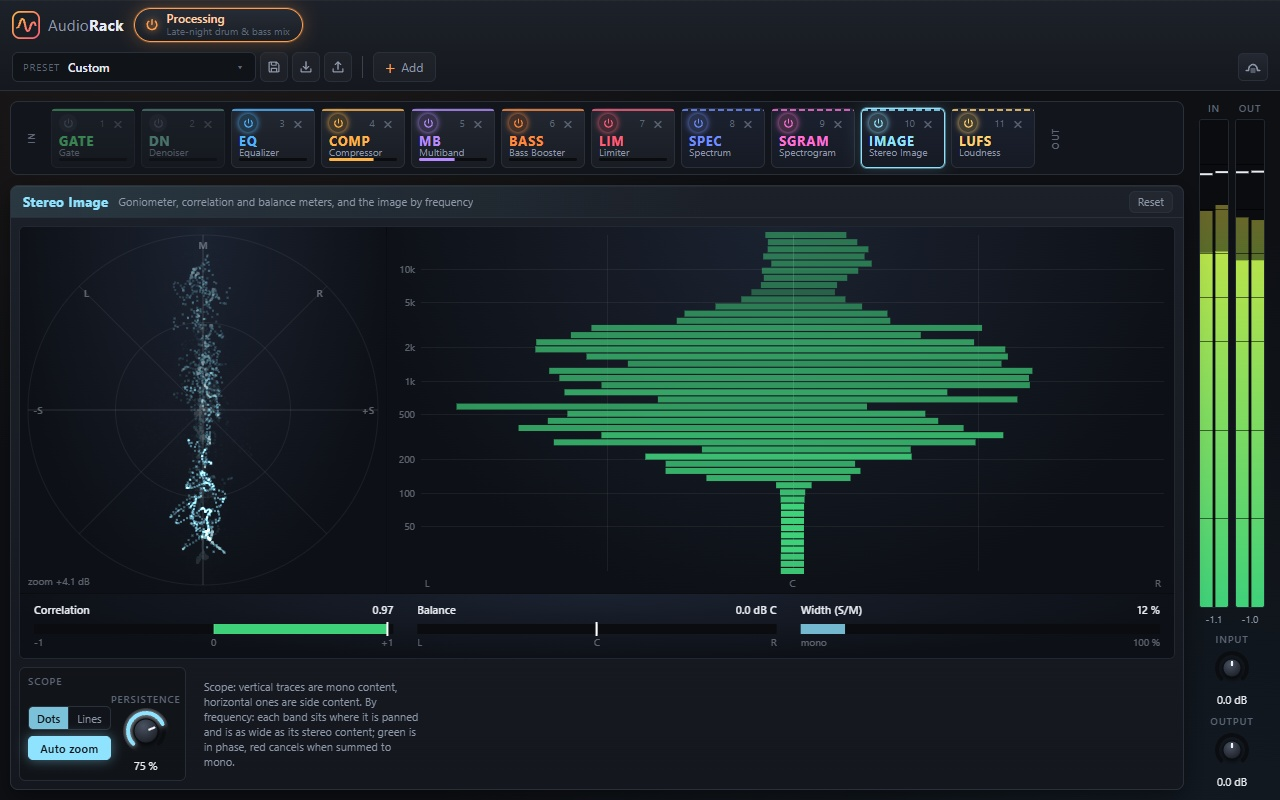
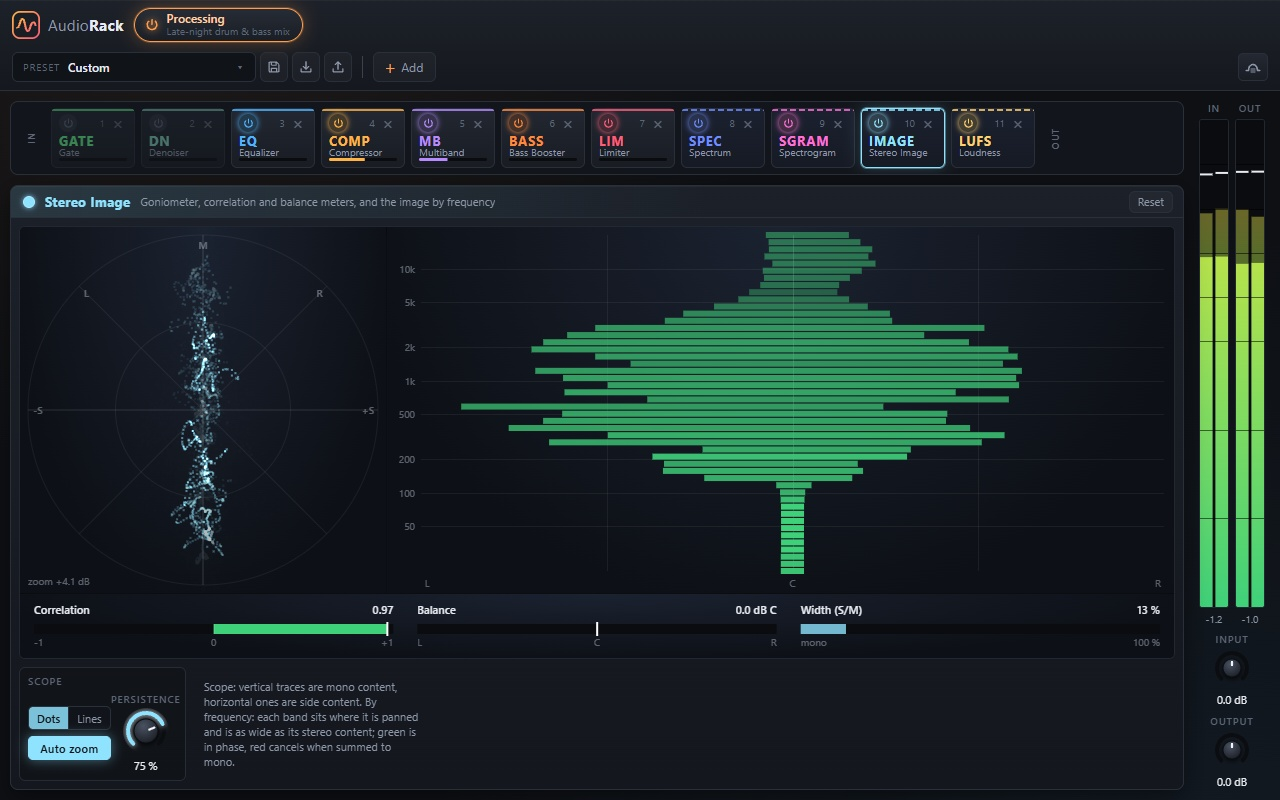
Release 0.8.0: recapture screenshots and update docs for display editing
- Bump the version to 0.8.0
- Recapture the store screenshots, every website picture and the
  marquee, now showing the nodes, rings and guides on the displays and
  the gate's transfer curve
- The side panel scene pins the equalizer and the spectrogram in an
  820 px panel, so the equalizer's controls fit on one row, laid out
  larger than captured so both panels fit
- store-assets.mjs: `--side-panel` captures only the side panel scene
- Website, store description and README: describe dragging on the
  displays, the three-setting nodes, accent colors and the gate curve

diff --git a/site/index.html b/site/index.html
@@ -76,7 +76,9 @@
                 <p class="section-lead">
                     Add effects, drag them into the order you want, or side by side in parallel
                     branches, and bypass any of them with a click. Bypassing crossfades, so there
-                    are no clicks or pops.
+                    are no clicks or pops. The displays are controls too: drag a node to set two
+                    settings at once and its ring for a third, or drag a threshold line, and give
+                    each effect an accent color of your own.
                 </p>
                 <div class="modules">
                     <article class="module" style="--tint: #4fb3ff">
@@ -91,8 +93,8 @@
                         <p>
                             Up to 12 bands (bells, shelves, notch, band pass and 12–48 dB/oct cuts)
                             drawn right on the live spectrum before and after the EQ. Double-click
-                            to add a band, drag it to set its frequency and gain, and use the mouse
-                            wheel for its width.
+                            to add a band, drag its point to set the frequency and gain, and its
+                            ring for the width.
                         </p>
                     </article>
                     <article class="module" style="--tint: #ffb347">
@@ -109,7 +111,8 @@
                             by the ratio. The transfer curve shows the setting and the history shows
                             the level and the gain reduction as they happen. Peak or RMS detection,
                             a sidechain filter that ignores the bass, auto makeup gain and a mix
-                            knob for parallel compression.
+                            knob for parallel compression. Drag the knee for the threshold and
+                            ratio, and its ring for a softer knee.
                         </p>
                     </article>
                     <article class="module" style="--tint: #ff5e7a">
@@ -125,7 +128,7 @@
                             A brickwall for the end of the chain: the output never goes above the
                             ceiling. It looks a few milliseconds ahead, so peaks are caught smoothly
                             instead of clipped, and the drive pushes the level into it for a louder
-                            sound.
+                            sound. Drag the ceiling line to set it.
                         </p>
                     </article>
                     <article class="module" style="--tint: #b78bff">
@@ -140,8 +143,9 @@
                         <p>
                             Splits the sound into two to four bands on phase-aligned crossovers and
                             compresses each one on its own, so a booming bass no longer pushes down
-                            the voice. Drag the crossovers in the display; solo, mute or bypass any
-                            band.
+                            the voice. Drag the crossovers in the display, and each band's node up
+                            for its threshold, sideways for its ratio and its ring for makeup gain;
+                            solo, mute or bypass any band.
                         </p>
                     </article>
                     <article class="module" style="--tint: #ff7a59">
@@ -157,8 +161,9 @@
                             Adds warmth, grit or edge, across the whole signal or in up to four
                             bands. Each band has its own curve (tube, tape, soft or hard clipping,
                             wavefolding or a rectifier), drive, tone, mix and level, and dynamics
-                            that let the drive follow how loud the band plays. Up to 4× oversampling
-                            keeps the added harmonics free of aliasing.
+                            that let the drive follow how loud the band plays: drag a band's node up
+                            for drive, sideways for tone and its ring for dynamics. Up to 4×
+                            oversampling keeps the added harmonics free of aliasing.
                         </p>
                     </article>
                     <article class="module" style="--tint: #62f08a">
@@ -167,14 +172,15 @@
                             width="800"
                             height="600"
                             loading="lazy"
-                            alt="Gate closing between drum hits: level history with threshold line and gate gain"
+                            alt="Gate with its transfer curve and hysteresis loop, the level history with its threshold line and the gate gain"
                         />
                         <h3>Gate</h3>
                         <p>
                             Turns the sound down while it stays below the threshold, to silence hum
                             and hiss between phrases or to tighten drums. Hold and hysteresis keep
                             it from chattering, and the sidechain filter keeps rumble from opening
-                            it.
+                            it. Its transfer curve shows where it opens and closes: drag the node
+                            for the threshold and range, its ring for the hysteresis.
                         </p>
                     </article>
                     <article class="module" style="--tint: #3fe0c5">
@@ -188,8 +194,9 @@
                         <h3>Filter</h3>
                         <p>
                             A resonant low pass, high pass, band pass or notch with 12–48 dB/oct
-                            slopes and drive. The LFO sweeps the cutoff for slowly moving filter
-                            effects, and the mix knob blends in the dry sound.
+                            slopes and drive. Drag the handle for cutoff and resonance and its ring
+                            for drive. The LFO sweeps the cutoff for slowly moving filter effects,
+                            and the mix knob blends in the dry sound.
                         </p>
                     </article>
                     <article class="module" style="--tint: #ffd84f">
@@ -204,8 +211,9 @@
                         <p>
                             Softens harsh “s” and “sh” sounds in speech and vocals. It listens to a
                             narrow band around the sibilance and turns down only that band, or the
-                            whole signal in wideband mode. Listen mode lets you hear exactly what it
-                            catches.
+                            whole signal in wideband mode. Drag the handle for the frequency and
+                            range, its ring for the threshold. Listen mode lets you hear exactly
+                            what it catches.
                         </p>
                     </article>
                     <article class="module" style="--tint: #7fd1b9">
@@ -221,8 +229,9 @@
                             Reduces steady background noise such as hiss, hum and fan noise. It
                             follows the noise floor of each frequency by itself, or press Learn
                             noise while only the noise plays and it removes that profile, which
-                            spares steady tones the adaptive mode could mistake for noise. Listen
-                            mode lets you hear what it takes out.
+                            spares steady tones the adaptive mode could mistake for noise. Drag the
+                            reduction limit and the threshold right on the display; listen mode lets
+                            you hear what it takes out.
                         </p>
                     </article>
                     <article class="module" style="--tint: #9fe870">
@@ -237,7 +246,8 @@
                         <p>
                             Gain, pan, stereo width from mono to extra wide and a polarity flip for
                             each channel, with a loudness bar that shows the momentary and
-                            short-term loudness of its output in LUFS.
+                            short-term loudness of its output in LUFS. Drag the handle on the sound
+                            stage to pan and widen the image.
                         </p>
                     </article>
                     <article class="module" style="--tint: #ff8a3d">
@@ -251,7 +261,8 @@
                         <h3>Bass Booster</h3>
                         <p>
                             A low shelf boost plus generated harmonics that make the bass audible
-                            even on laptop and phone speakers. A rumble filter keeps the boost
+                            even on laptop and phone speakers. Drag the handle for frequency and
+                            boost, its ring for the harmonics. A rumble filter keeps the boost
                             clean, and mono bass centers the low end.
                         </p>
                     </article>
@@ -309,10 +320,10 @@
                         width="800"
                         height="600"
                         loading="lazy"
-                        alt="The rack docked in the browser's side panel next to a video page, with the equalizer and a pinned compressor stacked below the chain"
+                        alt="The rack docked in the browser's side panel next to a video page, with the pinned equalizer and spectrogram stacked below the chain"
                     />
                     <figcaption>
-                        Equalizer picked between pinned effects, next to the page that plays.
+                        The equalizer and the spectrogram pinned, next to the page that plays.
                     </figcaption>
                 </figure>
                 <div class="feature-text">
@@ -401,7 +412,7 @@
                             An EBU R128 loudness meter: momentary, short-term and gated integrated
                             loudness, loudness range and 4× oversampled true peak. Measure a whole
                             show against a target such as −14 LUFS for streaming or −23 LUFS for
-                            broadcast.
+                            broadcast, and drag the target line to set your own.
                         </p>
                     </article>
                 </div>

diff --git a/store/promo/side-panel.html b/store/promo/side-panel.html
@@ -94,7 +94,7 @@
                 display: flex;
                 flex: none;
                 flex-direction: column;
-                width: 600px;
+                width: 820px;
                 border-left: 1px solid rgb(255 255 255 / 12%);
                 background: #0e1014;
                 box-shadow: -12px 0 32px rgb(0 0 0 / 35%);

diff --git a/store/README.md b/store/README.md
@@ -43,8 +43,8 @@ Screenshots, in order:
 3. `3-spectrogram.jpg`: spectrogram of the demo track
 4. `4-stereo-image.jpg`: stereo scope next to the image by frequency, with correlation, balance
    and width
-5. `5-side-panel.jpg`: the rack docked in the side panel next to a video page, with pinned
-   effects stacked in chain order
+5. `5-side-panel.jpg`: the rack docked in the side panel next to a video page, with the pinned
+   equalizer and spectrogram stacked in chain order
 
 The store accepts at most five screenshots; replace the uploaded set in the dashboard when they
 change.
@@ -119,6 +119,9 @@ that rack and switched on for their own pictures; for the denoiser the page play
 with added hiss and hum. That rack is full, so the saturator's picture comes from a small
 rack of its own, [`site/saturator-rack.json`](../site/saturator-rack.json), played last. The side panel screenshot is staged by
 [`promo/side-panel.html`](promo/side-panel.html): a sample video page with the rack docked in a
-600 px panel next to it, three effects pinned and the equalizer picked. The same scene is also
-saved at 800×600 as the website's `site/images/side-panel.jpg`. The promo tiles are rendered from
+panel next to it, the equalizer and the spectrogram pinned and the equalizer picked. The panel is
+820 px wide, so the equalizer's controls fit on one row, and the scene is laid out larger than it
+is captured (at 75%) so both panels fit; it is saved again at 800×600 (60%)
+as the website's `site/images/side-panel.jpg`. `npm run store:assets -- --side-panel` captures
+only this scene, and `-- --tiles` only the promo tiles. The promo tiles are rendered from
 the HTML pages in [`promo/`](promo), and the marquee embeds the first screenshot.

diff --git a/README.md b/README.md
@@ -14,7 +14,7 @@ effects, with a dark, analyzer-driven interface inspired by modern plug-in suite
 | Limiter      | Lookahead brickwall limiter; the output never exceeds the ceiling.                                                                     |
 | Multiband    | 2–4 band compressor on phase-compensated Linkwitz-Riley crossovers, with solo/mute/bypass per band.                                    |
 | Saturator    | 1–4 band saturation (tube, tape, soft, hard, fold, rectify) with drive, dynamics, tone, mix and level per band; 1×/2×/4× oversampling. |
-| Gate         | Noise gate with range, attack, hold, release, hysteresis and a sidechain high-pass.                                                    |
+| Gate         | Noise gate with range, attack, hold, release, hysteresis and a sidechain high-pass; a transfer curve shows the hysteresis loop.        |
 | Filter       | Resonant LP/HP/BP/notch filter with drive and a sine/triangle LFO on the cutoff.                                                       |
 | De-esser     | Band-pass sidechain detector, split-band or wideband reduction, and a listen mode.                                                     |
 | Denoiser     | Spectral noise reduction (STFT) on an adaptive noise floor or a learned noise profile, with listen; ~32 ms latency.                    |
